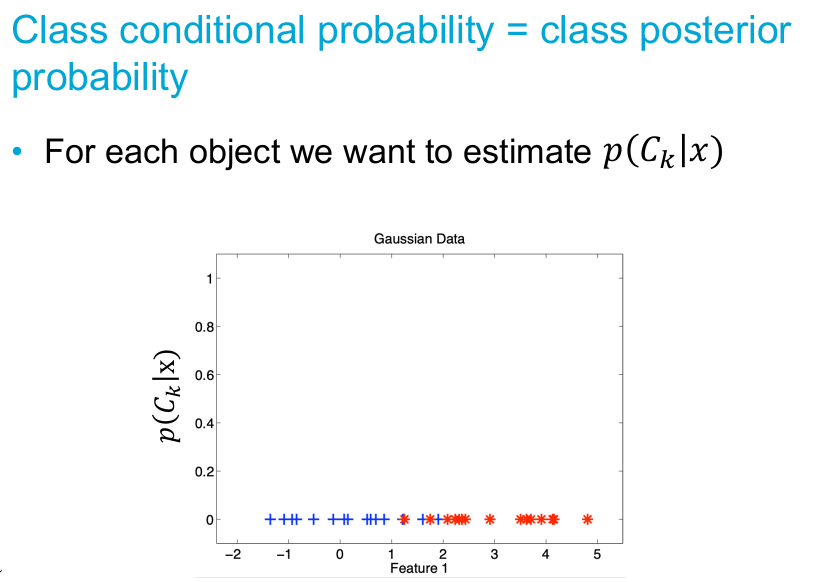
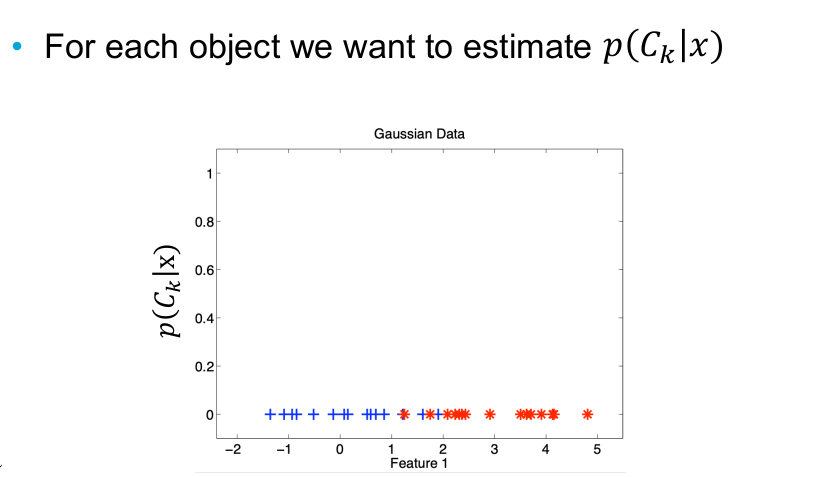
lecture 1.2

diff --git a/_posts/2021-08-30-ml.md b/_posts/2021-08-30-ml.md
@@ -38,8 +38,9 @@ tags: CSE2510
   - [Decision theory](#decision-theory)
     - [Decision boundary](#decision-boundary)
     - [Soft-Hard classification process recap and complicated decision boundaries](#soft-hard-classification-process-recap-and-complicated-decision-boundaries)
-    - [Minimize misclassification](#minimize-misclassification)
-    - [Minimize Cost function](#minimize-cost-function)
+    - [Model](#model)
+    - [Classification error](#classification-error)
+    - [Missclassification costs](#missclassification-costs)
 
 ## What is machine learning?
 * With machine learning we can automatize boring simple repetitive tasks such as identifying patterns in a picture and group the patterns found into labels (i.e. recognising if the picture has a dog, a cat, a fruit...)
@@ -297,7 +298,7 @@ unknown object in the most likely class
   * Note that bayes rule is just a conditional probability rule whose joint probability term has been replaced with the product rule equivalent
 * With that we can calculate the conditional probability of an object belonging to a label, which is basically the solution for the machine learning algorithm we're trying to design!
 * In ML you'll hear the marginal probability of y being refered to as the "prior probablity"
-* In ML you'll hear the conditional probability of y given x as the "**posterior probability**" or as "**class conditional probability**"
+* In ML you'll hear the conditional probability of y given x as the "**posterior probability**"
 * x is often regarded as feature or object (object with certain features)
 
 
@@ -313,39 +314,59 @@ unknown object in the most likely class
 
 ![404]({{ site.url }}/images/ml/class.PNG)
 
-* The training data (historical) eventually estimates the probability distributions for each of the (posterior) class conditional probabilities
+* The training data (historical) eventually estimates the probability distributions for each of the class posterior probabilities
   * Although we start with a "discrete" amount of training data, the computer will estimate for us the continous probability functions based on the data that we have
 
 ![404]({{ site.url }}/images/ml/training2.PNG)
 
-* In this example the classes (aple vs orange) are mutually exclusive, therefore the class conditional probabilities add to 1 for any continous value of feature 1
+* In this example the classes (aple vs orange) are mutually exclusive, therefore the class posterior probabilities add to 1 for any continous value of feature 1
 
 ## Decision theory
 * Decision theory complements the "soft" classifaction (giving probability of belonging to a class rather than black and white outcomes) with "hard" (black and white) final outcomes.
 
 ### Decision boundary
-* In order to ultimately classify x to a given class, we generally have n-1 decisions boundaries for n classes
+* In order to ultimately classify x to a given class, we *generally* have n-1 decisions boundaries for n classes
 
 ![404]({{ site.url }}/images/ml/boundary.PNG)
 
 * The criteria to assign an object to a class is simply that the (posterior) conditional probability of that class is higher than the other ones. Basically the most likely class is selected.
 
 ### Soft-Hard classification process recap and complicated decision boundaries
-* The training data defines the probability of a feature present in a label (note that this conditional probability is the **reversed** of the posterior (but it's not the prior, the prior would be \\(p(C_k)\\), we're just reversing the roles of \\(C_k\\) since the training data itself intrinsically describes \\(p(x\|C_k)\\)).
+* The training data defines the probability of a feature present in a label (note that this class conditional probability is the **reversed** of the posterior (but it's not the prior, the prior would be \\(p(C_k)\\), we're just reversing the roles of \\(C_k\\) since the training data itself intrinsically describes \\(p(x\|C_k)\\)).
   * (Soft classification) From the training set we do have the marginal probabilities to plug the values into bayes rule and get:
   * $$p(C_k|x)=\frac{p(x|C_k)p(C_k)}{p(x)}$$
   * (Hard classification) Assign the objects to the label that has the highest class posterior probablity \\(p(C_k\|x)\\)
 
 ![404]({{ site.url }}/images/ml/complicated.PNG)
-
 ![404]({{ site.url }}/images/ml/missing.PNG)
-
 ![404]({{ site.url }}/images/ml/2d.PNG)
+![404]({{ site.url }}/images/ml/multi.PNG)
+
+### Model
+* Note on the probability function for the conditional probability \\p(x\|C_k)\\ (called class conditional probability): The shape of the distribution (utterly based on the training data) is based on the model used in the training phase.
+  * We covered a sample [linear moder](#non-probabilstic-example-polynomial-curve-fitting-linear-model) but more details on selecting a model come in next sections
+* During training estimate the model parameters such that the example objects fit well: maximum likelihood estimators
+
+### Classification error
+![404]({{ site.url }}/images/ml/bayeserror.png)
+* This is due to noise in the data as well as how well it can be naturally split into different categories (classifier quality)
+
+![404]({{ site.url }}/images/ml/classification_error.png)
+* The yellow part are actually errors (but we can shift the decision boundary to one side to minimize the errors)
+
+![404]({{ site.url }}/images/ml/bayeserror2.PNG)
+* Bayes error is the minimum attainable error
+* In practice we do not have the true distributions, and we cannot obtain them
+* The Bayes error does not depend on the classification rule that you apply, but on the distribution of the data
+* In general you cannot compute the bayes error
+  * You do not know the true class conditional probabilities
+  * The high dimensional integrals are very complicated
 
 
-### Minimize misclassification
-
-### Minimize Cost function
-
-
+### Missclassification costs
+* We want to make as few errors as possible with the assignment of x to class C
+* Error: x is assigned to C1 but should have been assigned to C2 and viceversa
+* Sometimes missclassification of class A to class B is much more costly than misclassification of class B to class A
+  * We can add a loss value for false positives and false negatives respectively
+* Then the goal becomes to minimize the loss function
 
